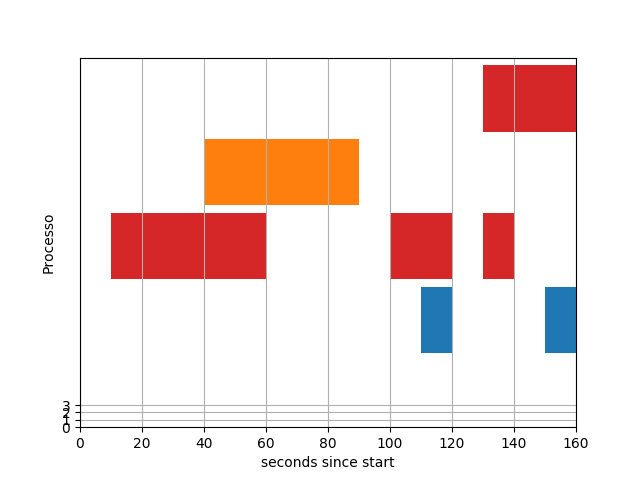
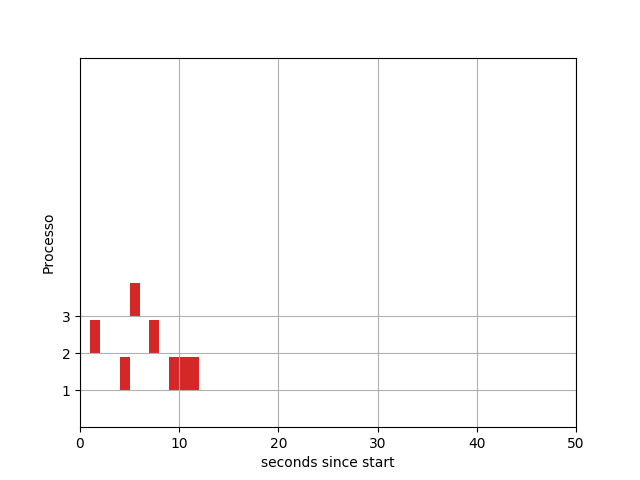
plotting SJF

diff --git a/src/models/plotting.py b/src/models/plotting.py
@@ -1,5 +1,6 @@
 # Importing the matplotlb.pyplot 
 import matplotlib.pyplot as plt
+from random import randint
 #import numpy as np
 class Gantt:
     def __init__(self, processNames ):
@@ -8,11 +9,11 @@ class Gantt:
         self.list_consun = []
 
     def construc_graph(self, processNames):
-        base = 10
+        base = 0
         jumpbase = 10
         spec = 9
-        self.gnt.set_ylim(0, 50) 
-        self.gnt.set_xlim(0, 160) 
+        self.gnt.set_ylim(0, 100) 
+        self.gnt.set_xlim(0, 50) 
 
         # Setting labels for x-axis and y-axis 
         self.gnt.set_xlabel('seconds since start') 
@@ -34,12 +35,15 @@ class Gantt:
         for name in setnome:
             ytickss.append(name)
         # Setting ticks on y-axis 
-        self.gnt.set_yticks(ytickss) 
-
-
-
+        self.gnt.set_yticklabels(ytickss) 
+        yticksom = 0
+        listyticks = []
+        for i in range(len(setnome)):
+            listyticks.append(yticksom + 10)
+            yticksom = yticksom + 10
+        self.gnt.set_yticks(listyticks)
         # Labelling tickes of y-axis 
-        self.gnt.set_yticklabels(setnome) 
+        #self.gnt.set_yticklabels(setnome) 
         # Setting graph attribute 
         self.gnt.grid(True) 
         for name in setnome:
@@ -50,9 +54,32 @@ class Gantt:
                     multiplus.append(proc)
             acumulado.append(multiplus)
 
-        print(acumulado) 
+        print("ACUMULADO",acumulado) 
         print(setnome)
-
+        
+        anterior = -1
+        cont = 0
+        self.list_consun = []
+        for processo in acumulado:
+            outlist = []
+            anterior = -2
+            for timestamp in processo:
+                print("\nprocesso",timestamp[0],timestamp[1])
+                if(anterior+1 != timestamp[1]):
+                    outlist.append([timestamp[1],1])
+                    anterior = timestamp[1]
+                else:
+                    #print(outlist)
+                    #print(len(outlist[0]))
+                    outlist[(len(outlist)-1)][1] = int(outlist[(len(outlist)-1)][1] )+ 1
+                    
+                    anterior = timestamp[1]
+            self.list_consun.append(outlist)
+            #print(len(self.list_consun))
+            cont += 1
+            
+        print(self.list_consun)
+        #print(self.list_consun)
         #for nome in nomes:
         #    print(nome)
 
@@ -61,28 +88,28 @@ class Gantt:
 
         # for TESTE
         # Declaring a bar in schedule 
-        self.gnt.broken_barh([(40, 50)], (30, 9), facecolors =('tab:orange')) 
+        #self.gnt.broken_barh([(40, 50)], (30, 9), facecolors =('tab:orange')) 
   
         # Declaring multiple bars in at same level and same width 
-        self.gnt.broken_barh([(110, 10), (150, 10)], (10, 9), 
-                         facecolors ='tab:blue') 
+        #self.gnt.broken_barh([(110, 10), (150, 10)], (10, 9), 
+        #                 facecolors ='tab:blue') 
   
-        self.gnt.broken_barh([(10, 50), (100, 20), (130, 10)], (20, 9), 
-                                  facecolors =('tab:red')) 
+        #self.gnt.broken_barh([(10, 50), (100, 20), (130, 10)], (20, 9), 
+        #                          facecolors =('tab:red')) 
 
-        self.gnt.broken_barh([(130, 150)], (40, 9), 
-                                  facecolors =('tab:red')) 
+        #self.gnt.broken_barh([(130, 150)], (40, 9), 
+        #                          facecolors =('tab:red')) 
         ####################################  
            
 
 
 
-        print(self.list_consun)
+        #print(self.list_consun)
                 
-        #for process in self.list_consun:
-        #    print(process)
-        #    self.gnt.broken_barh(process, (base+jumpbase, spec), facecolors =('tab:red')) 
-        #    base = base+jumpbase
+        for process in self.list_consun:
+            #print(process)
+            self.gnt.broken_barh(process, (base+jumpbase, spec), facecolors =('tab:red')) 
+            base = base+jumpbase
        
-            
-        plt.savefig("gantt1.png") 
+        title = "gantt" + str(randint(0, 100)) + ".png"
+        plt.savefig(title) 

diff --git a/src/Gerenciador.py b/src/Gerenciador.py
@@ -365,6 +365,7 @@ class Manager:                                          # Gerenciador de process
 
             for process in (self.QueueFinished):
                 process.calculate_Waiting()
+
             self.calc_TRM(self.QueueFinished)
             self.calc_TTE(self.QueueFinished)
 
@@ -373,7 +374,7 @@ class Manager:                                          # Gerenciador de process
             SJF = sjf(confs[2])
             blockIndex = 0
             executingProc = None
-
+            outplot = []
             # fluxo de execucao do SJF
             while True:    
                 # Percorre a lista de não criados, preenchendo a lista de prontos
@@ -384,9 +385,12 @@ class Manager:                                          # Gerenciador de process
                     index, bt = SJF.selectProc(self.List_QRdy[0])   # Faz a seleção do processo com menor burstime na fila de prontos, para ser executado, retornando o index dele e o bt
 
                     if (executingProc):
+                        
                         if (executingProc.procState == 1):
                             if (executingProc.procBurstTime > bt):  # caso haja um processo em execução, o processo selecionado na fila só iniciará se ele possuir um bt menor
+                                
                                 executingProc.procState = 0
+                                
                                 self.List_QRdy[0].sentinel.append(executingProc)    # retorna o processo em execução para a lista de prontos
                                 executingProc = self.List_QRdy[0].sentinel[index]   # atribui o novo processo
                                 self.List_QRdy[0].sentinel.pop(index)               # remove da lista
@@ -400,6 +404,7 @@ class Manager:                                          # Gerenciador de process
                     print("TimeStamp: ", self.Timestamp)
 
                     if (executingProc):
+                            outplot.append([executingProc.procID,self.Timestamp])
                             print("ID: ", executingProc.procID, "\tFIO: ", executingProc.procIOTime, "\tSTATE: ",executingProc.procState, "\tBT: ",executingProc.procBurstTime, "\tUSED: ", executingProc.procCPUuse)
 
                             if ((executingProc.procState == 0) or (executingProc.procState == 1)):
@@ -434,6 +439,9 @@ class Manager:                                          # Gerenciador de process
                 else:
                     for process in (self.QueueFinished):
                         process.calculate_Waiting()
+                    print(outplot)
+                    gantt = Gantt(outplot)
+                    gantt.construc_graph(outplot)
                     self.calc_TRM(self.QueueFinished)
                     self.calc_TTE(self.QueueFinished)
                     break

diff --git a/main.py b/main.py
@@ -85,9 +85,9 @@ def main():
    
     # Managed.reset_Manager(nfilas)
 
-    Managed2 = Manager(1)
-    Managed2.construc_QNC(rrProcess)
-    Managed2.exec_loop('RR', confs)
+    #Managed2 = Manager(1)
+    #Managed2.construc_QNC(rrProcess)
+    #Managed2.exec_loop('RR', confs)
     
     # Exec DNMC -----------------------
     #Managed3 = Manager(2)
